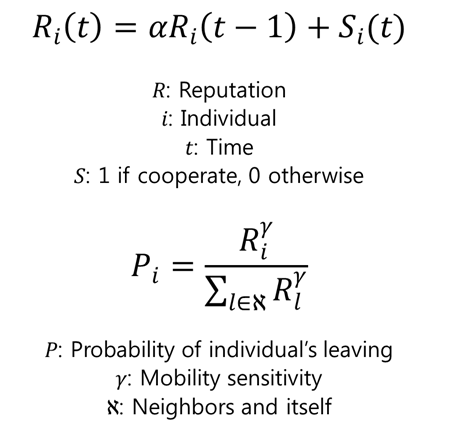
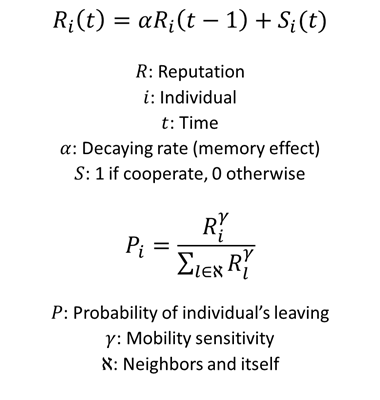
fix missing parameter

diff --git a/README.md b/README.md
@@ -10,9 +10,6 @@ Many studies have tried to explain the evolution of cooperation among unrelated 
 
 We believe that cooperation will also be promoted in this model and it will be interesting to see how success-driven and reputation-based migration relate to each other.
 
-(States your motivation clearly: why is it important / interesting to solve this problem?)
-(Add real-world examples, if any)
-(Put the problem into a historical context, from what does it originate? Are there already some proposed solutions?)
 
 ## The Model
 
@@ -24,7 +21,6 @@ We will use the well known prisoner's dilemma game in a game-theoretical way. In
 
 As it described in the above, mutual cooperation gives reward payoff *R* both players, and one defection between two players gives temptation payoff *T* for defector which is larger than *R* so that it induces the player to defect when the opponent cooperates and sucker's payoff *S* for sucker. In case of mutual defection, they will get punishment *P* payoff whish is larger than *S* so that it also induces the player to defect when the opponent defect. In sum, everybody is expected to defect, called the "tragedy of the commons" (Hardin, 1968).
 
-
 #### Spatial Game with Strategies
 
 We simply model social interactions on the *L* X *L* 2-dimensional spatial grid [1]. There are *N* individuals occupying grid sites, and they interact with *m* direct neighbors (von Neumann neighborhoods). The overall payoff *P* of player *i* at iteration *t* is the sum of each payoffs resulting from binary interactions with all von Neumann neighbors [2], and the respective player "imitate" the strategy of best performing neighbor.
@@ -32,9 +28,6 @@ We simply model social interactions on the *L* X *L* 2-dimensional spatial grid 
 In addition, we will extend this game by "success-driven migration" and "reputation-based migration". Before the imitation step, a player can move to improve their expected overall payoff to empty site within a quadratic area of *(2M+1)* X *(2M+1)* sites (the Moore neighborhood of size *M*, e.g. the 8 neighboring sites for *M* = 1). A player can also evaluate the surrounding environment and decide whether he leaves or not by comparing his reputation and those of his neighbors [3]. Below equations accounts for the reputation effect in mobility.
 
 ![alt tag](https://github.com/pec0ra/cooperation/blob/master/other/reputation_eq.png)
-
-
-(Define dependent and independent variables you want to study. Say how you want to measure them.) (Why is your model a good abtraction of the problem you want to study?) (Are you capturing all the relevant aspects of the problem?)
 
 
 ## Fundamental Questions
@@ -45,15 +38,10 @@ How do they relate to each other ? How does reputation influence success-driven 
 
 What are the necessary conditions for success-driven and reputation-based migration in order to promote cooperation ?
 
-(At the end of the project you want to find the answer to these questions)
-(Formulate a few, clear questions. Articulate them in sub-questions, from the more general to the more specific. )
-
 
 ## Expected Results
 
 We believe that these mechanisms will promote cooperation. The reputation will probably help prisoners make better migration which will be favorable for cooperation.
-
-(What are the answers to the above questions that you expect to find before starting your research?)
 
 
 ## References 
@@ -64,18 +52,10 @@ Helbing, D., Yu, W., & Rauhut, H. (2011). Self-organization and emergence in soc
 
 Cong, R., Wu, B., Qiu, Y., & Wang, L. (2012). Evolution of cooperation driven by reputation-based migration. *PloS one, 7*(5), e35776.
 
-(Add the bibliographic references you intend to use)
-(Explain possible extension to the above models)
-(Code / Projects Reports of the previous year)
-
 
 ## Research Methods
 
 Game Theory and Agent-Based Model
 
-(Cellular Automata, Agent-Based Model, Continuous Modeling...) (If you are not sure here: 1. Consult your colleagues, 2. ask the teachers, 3. remember that you can change it afterwards)
-
 
 ## Other
-
-(mention datasets you are going to use)
